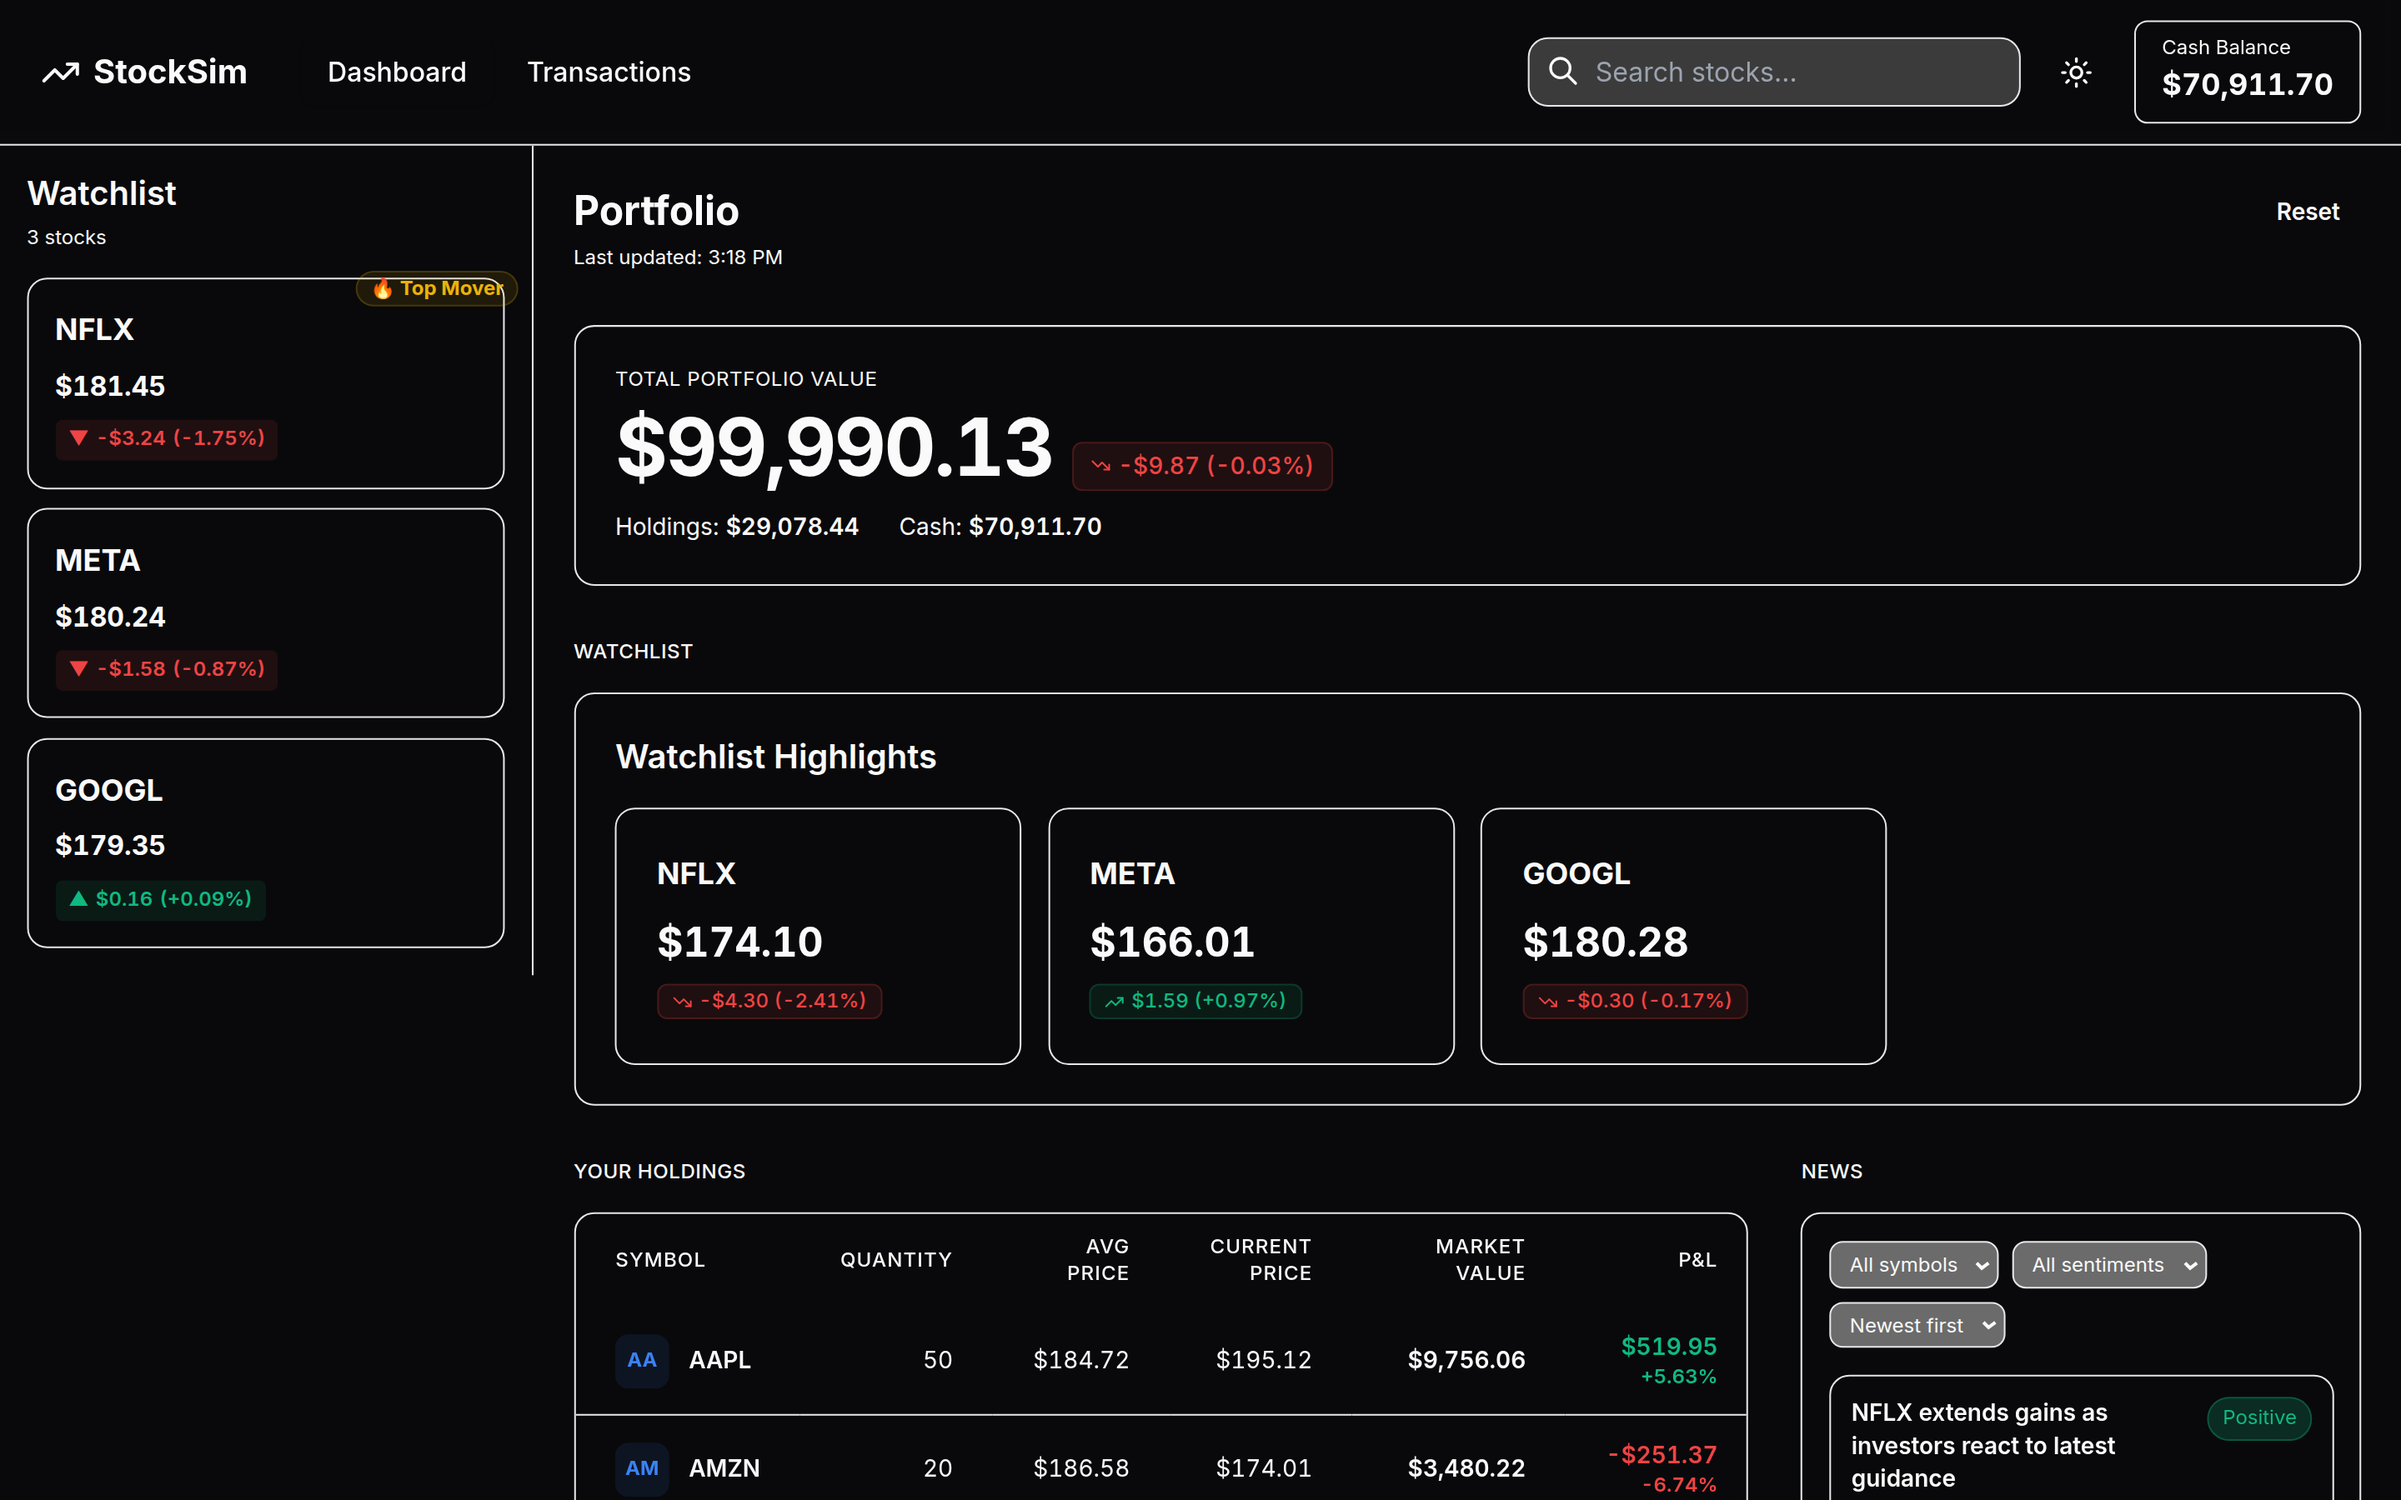
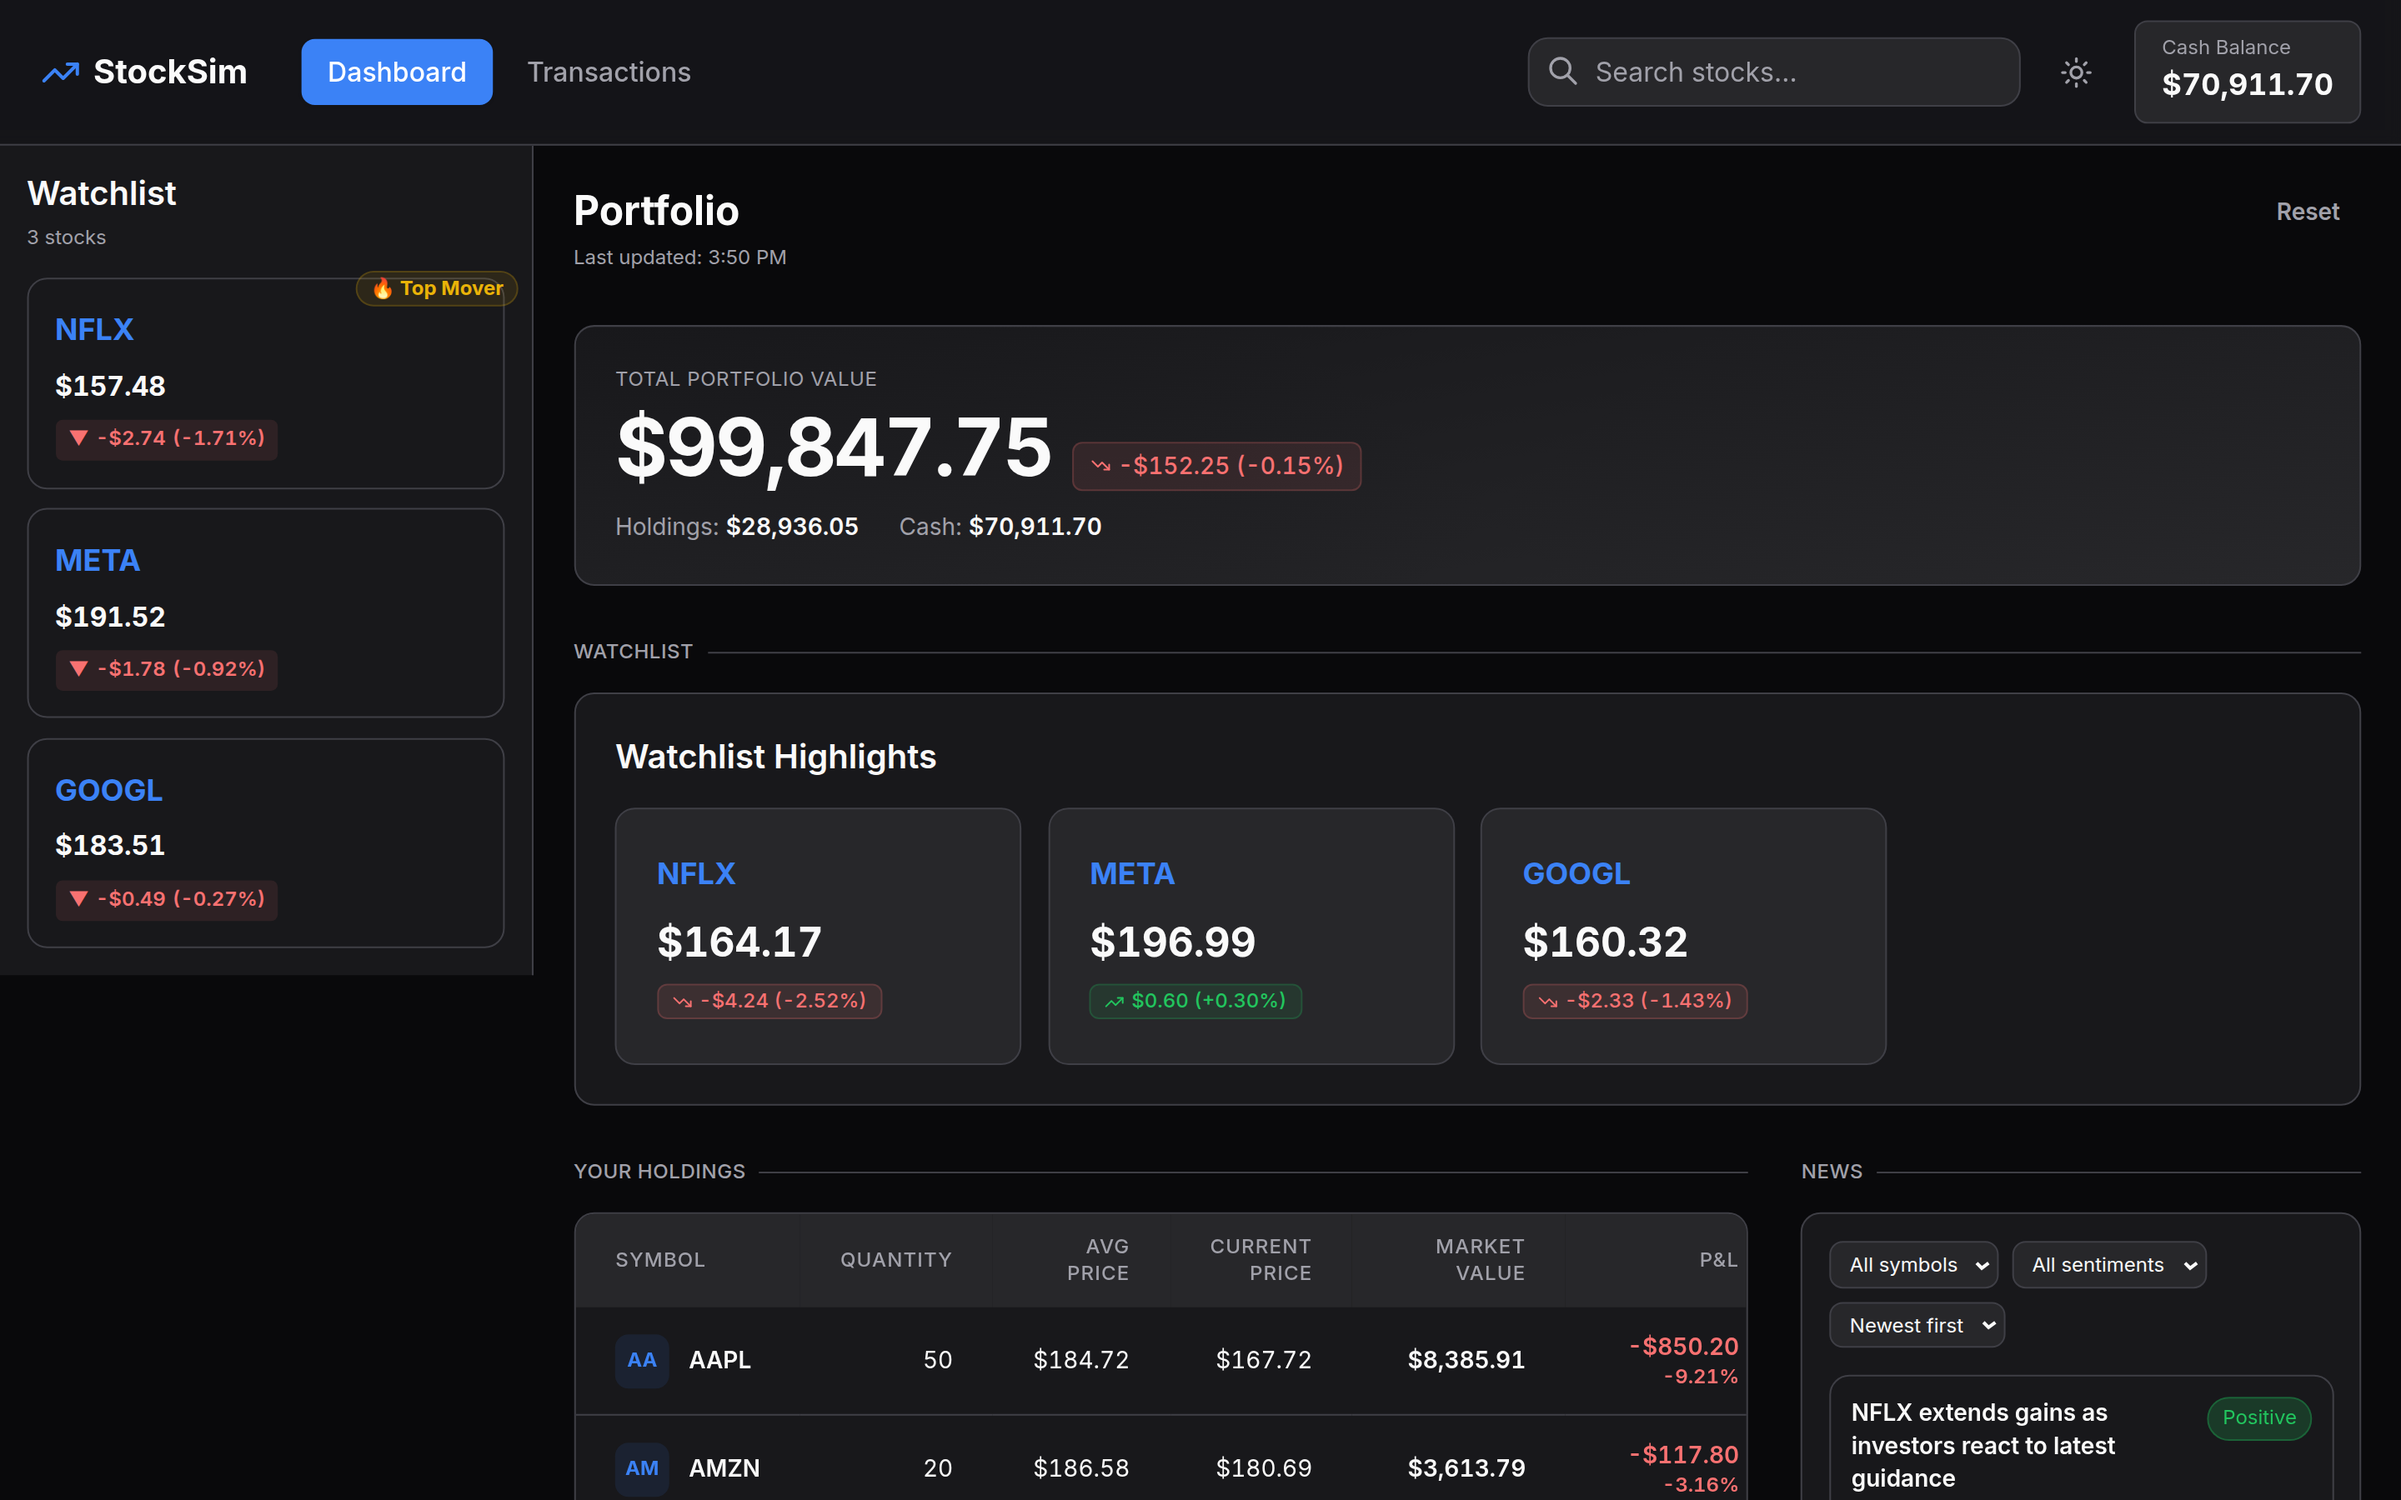
fix: apply accent color to holdings table ticker symbols

diff --git a/frontend/components/organisms/HoldingsTable.jsx b/frontend/components/organisms/HoldingsTable.jsx
@@ -114,7 +114,7 @@ const HoldingsTable = () => {
                       <div className={`w-8 h-8 rounded-lg flex items-center justify-center text-xs font-bold ${getSymbolColor(holding.symbol)}`}>
                         {holding.symbol.substring(0, 2)}
                       </div>
-                      <div className="text-sm font-semibold text-text">
+                      <div className="text-sm font-semibold text-accent">
                         {holding.symbol}
                       </div>
                     </div>
